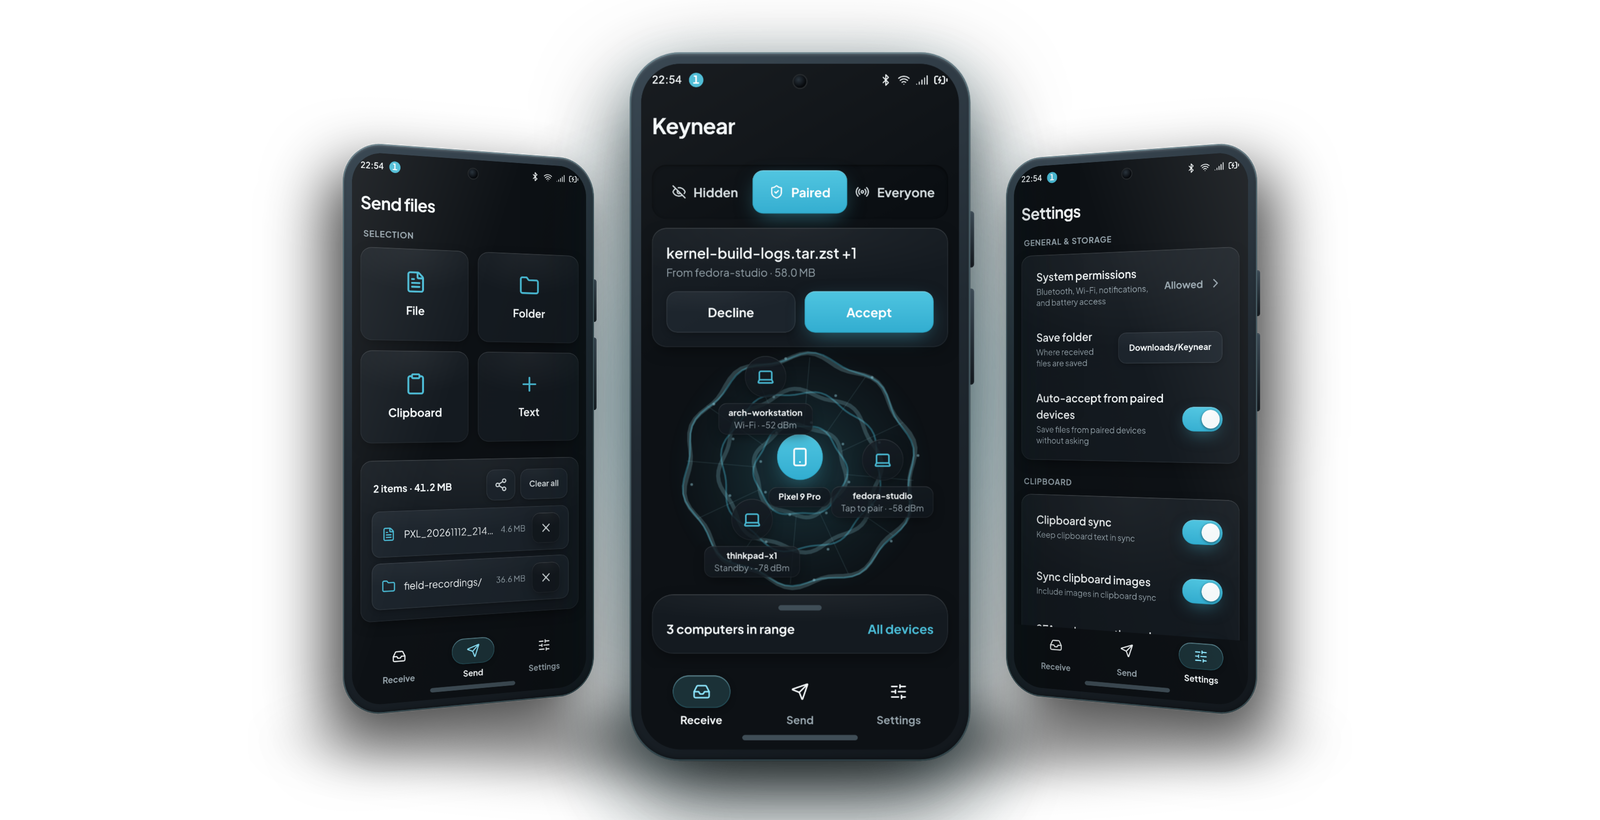
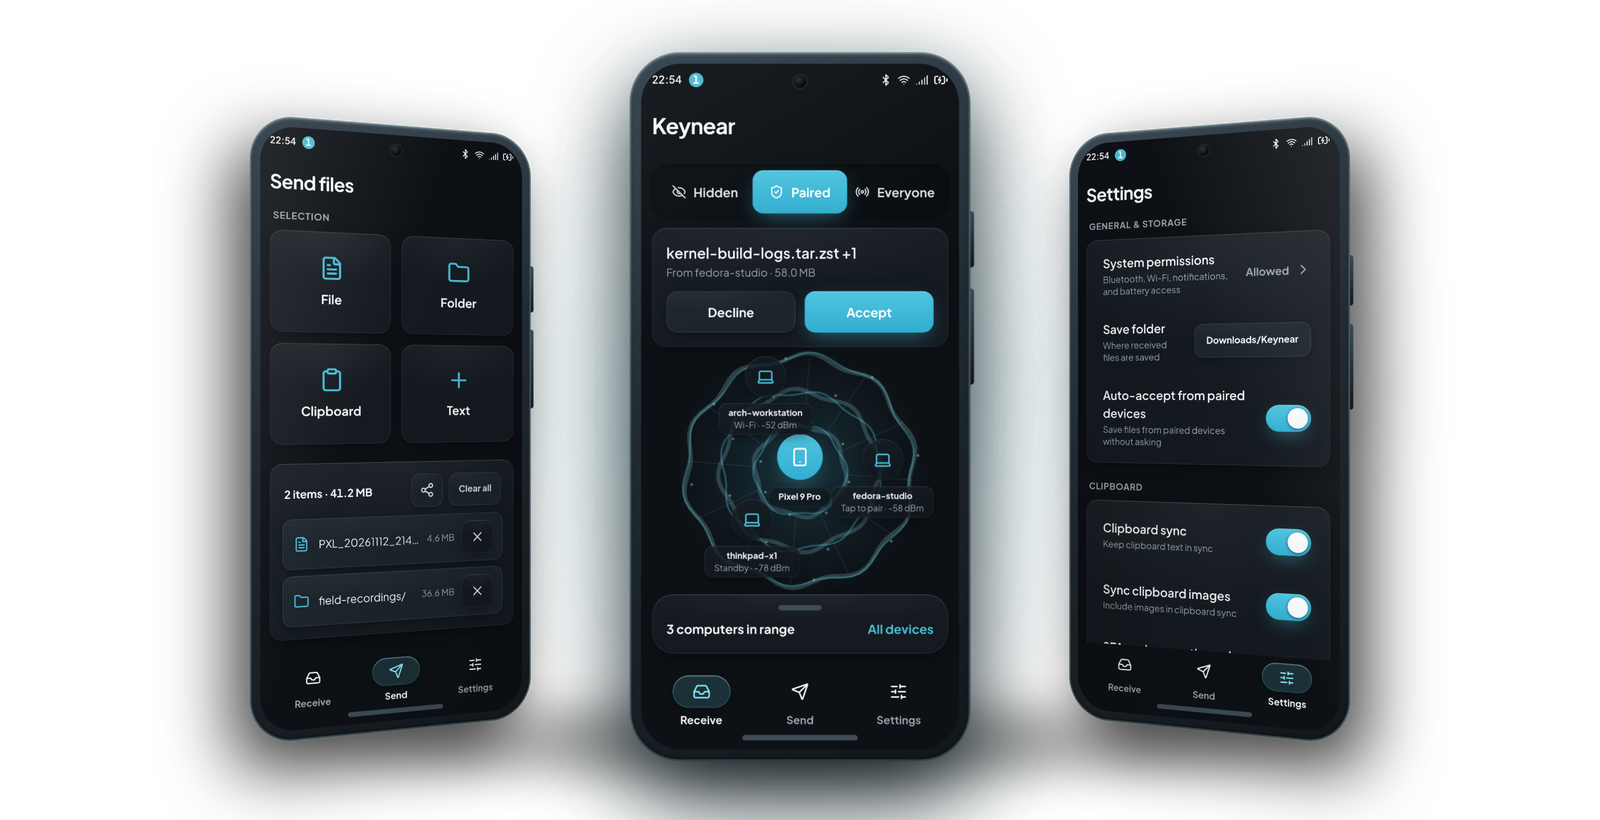
fix: widen Coverflow and soften aura [sweep-elicit-conventions-readme-261126]

Changed region(s): [[0.5938, 0.122, 0.9062, 0.9756], [0.0938, 0.122, 0.4062, 0.9756], [0.7188, 0.2439, 0.75, 0.2744]]

diff --git a/scripts/export/render-readme-screenshots.py b/scripts/export/render-readme-screenshots.py
@@ -70,7 +70,7 @@ HTML_TEMPLATE = """<!doctype html>
     transform-style: preserve-3d;
   }}
   .phone-wrap.left {{
-    transform: translateX(-348px) translateY(20px) translateZ(-120px) rotateY(32deg) scale(0.87);
+    transform: translateX(-430px) translateY(20px) translateZ(-120px) rotateY(32deg) scale(0.95);
     z-index: 2;
     filter: drop-shadow(-20px 30px 36px {side_shadow});
   }}
@@ -80,7 +80,7 @@ HTML_TEMPLATE = """<!doctype html>
     filter: drop-shadow(0px 34px 44px {center_shadow}) drop-shadow(0px 10px 18px {center_shadow_tight});
   }}
   .phone-wrap.right {{
-    transform: translateX(348px) translateY(20px) translateZ(-120px) rotateY(-32deg) scale(0.87);
+    transform: translateX(430px) translateY(20px) translateZ(-120px) rotateY(-32deg) scale(0.95);
     z-index: 2;
     filter: drop-shadow(20px 30px 36px {side_shadow});
   }}
@@ -207,8 +207,8 @@ HTML_TEMPLATE = """<!doctype html>
 
 THEMES = {
     "light": {
-        "aura_inner": "rgba(74, 187, 213, 0.34)",
-        "aura_mid": "rgba(74, 187, 213, 0.11)",
+        "aura_inner": "rgba(74, 187, 213, 0.18)",
+        "aura_mid": "rgba(74, 187, 213, 0.06)",
         "floor_shadow": "rgba(7, 26, 33, 0.24)",
         "side_shadow": "rgba(7, 26, 33, 0.28)",
         "center_shadow": "rgba(7, 26, 33, 0.34)",
@@ -223,8 +223,8 @@ THEMES = {
         "center_glare": "0.07",
     },
     "dark": {
-        "aura_inner": "rgba(74, 187, 213, 0.36)",
-        "aura_mid": "rgba(74, 187, 213, 0.10)",
+        "aura_inner": "rgba(74, 187, 213, 0.20)",
+        "aura_mid": "rgba(74, 187, 213, 0.06)",
         "floor_shadow": "rgba(0, 0, 0, 0.65)",
         "side_shadow": "rgba(0, 0, 0, 0.72)",
         "center_shadow": "rgba(0, 0, 0, 0.80)",
